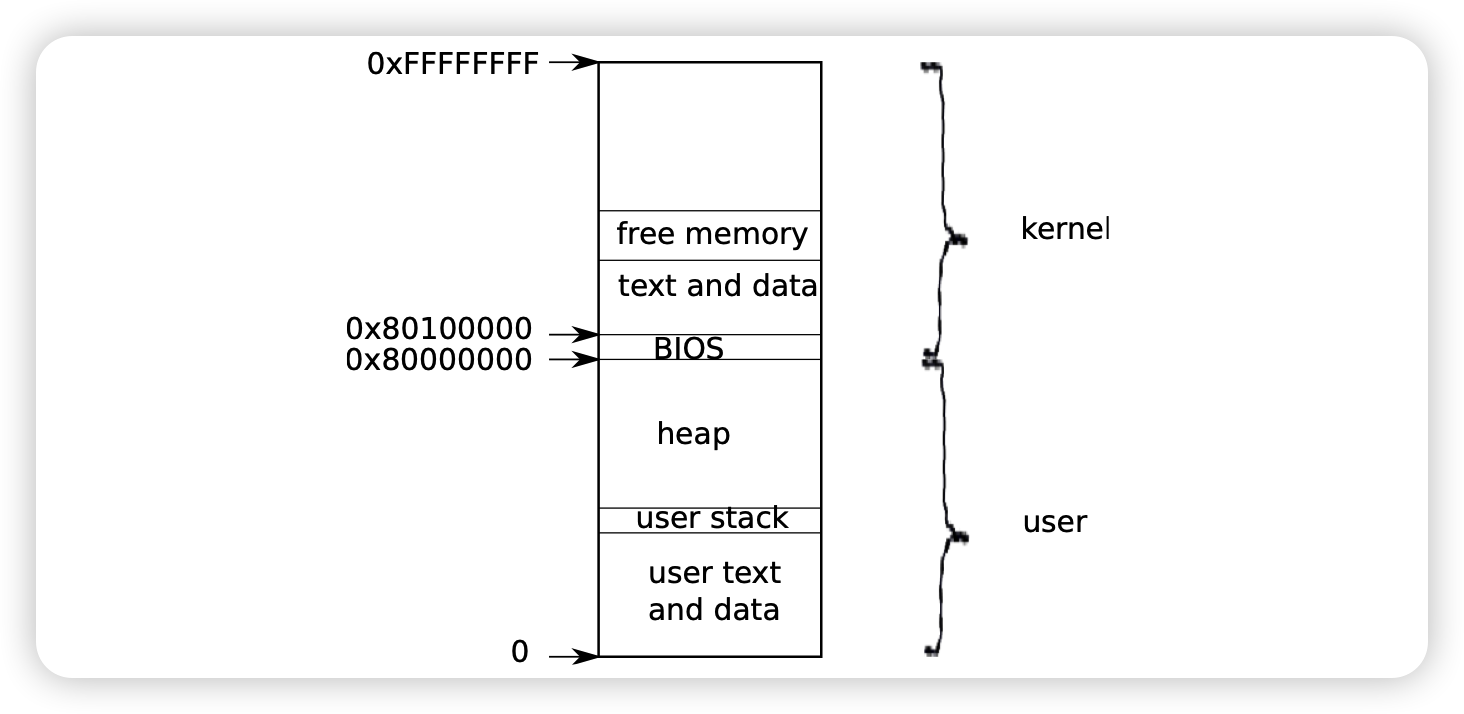
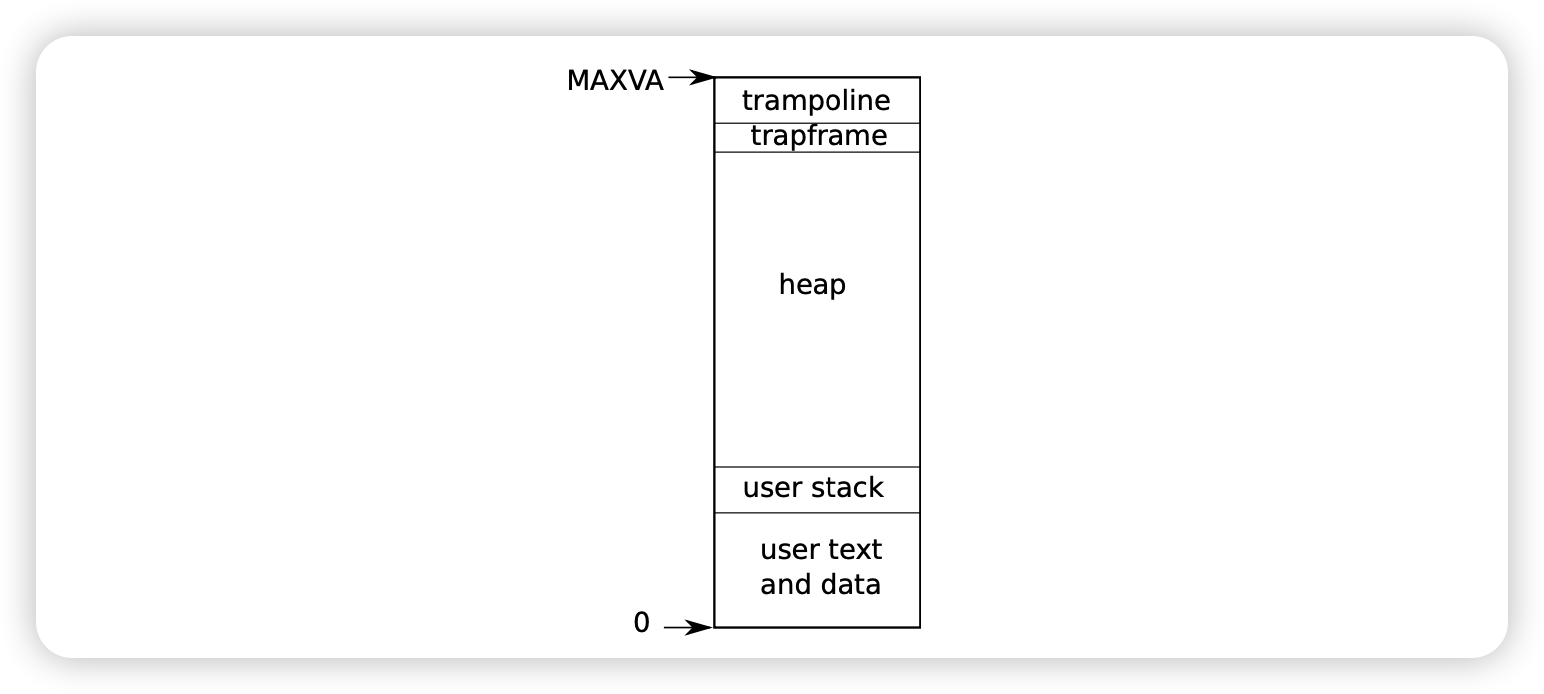
update 2.5

diff --git a/src/ch02.tex b/src/ch02.tex
@@ -177,39 +177,63 @@ xv6的内核源码在\texttt{kernel/}子目录下。
 \end{table}
 
 \section{进程概览}
-Xv6中的隔离单元（和其他Unix操作系统一样）是\emph{进程(process)}。进程的抽象可以阻止一个进程破坏或者窥探另一个进程的内存、CPU、文件描述符等内容。它还可以防止一个进程破坏内核本身，因此一个进程不可能颠覆内核的隔离机制。内核必须小心实现进程的抽象，因为一个有bug的或者恶意的应用可能会欺骗内核或硬件做一些坏事（例如规避强制隔离）。内核用来实现进程的机制包括用户态/内核态标志、地址空间和线程的时间分片。
+xv6中的隔离单元（和其他Unix操作系统一样）是\emph{进程(process)}。
+进程的抽象可以阻止一个进程破坏或者窥探另一个进程的内存、CPU、文件描述符等内容。
+它还可以防止一个进程破坏内核本身，因此一个进程不可能颠覆内核的隔离机制。
+内核必须小心实现进程的抽象，因为一个有bug的或者恶意的应用可能会欺骗内核或硬件做一些坏事（例如规避强制隔离）。
+内核用来实现进程的机制包括用户/管理态标志、地址空间和线程的时间分片。
 
-为了实现强制隔离，进程抽象为每个程序提供了它有一台自己的私有机器的假象。一个进程给一个程序提供了看似私有的内存系统、或者说\emph{地址空间(address space)}，其他进程不能读取或写入。一个进程还为程序提供了看似独占的CPU来执行程序的指令。
+为了实现强制隔离，进程抽象为每个程序提供了它有一台自己的私有机器的假象。
+一个进程给一个程序提供了看似私有的内存系统、或者说\emph{地址空间(address space)}，其他进程不能读取或写入。
+一个进程还为程序提供了看似独占的CPU来执行程序的指令。
 
-Xv6使用页表（由硬件实现）为每个进程提供私有的地址空间。x86的页表把一个\emph{虚拟地址(virtual address)}（x86指令中操作的地址）翻译（或者说“映射”）到一个\emph{物理地址(physical address)}（处理器芯片送到主存的地址）。
+xv6使用页表（由硬件实现）为每个进程提供私有的地址空间。
+RISC-V的页表把一个\emph{虚拟地址(virtual address)}（RISC-V指令中操作的地址）翻译（或者说“映射”）到一个\emph{物理地址(physical address)}（处理器芯片送到主存的地址）。
 
-Xv6为每个进程维护了一个单独的页表，它定义了进程的地址空间。如\autoref{f2-2}所示，一个地址空间包含了进程的\emph{用户内存(user memory)}，它从虚拟地址0处开始。首先是指令，接是全局变量、然后是栈，最后是一个进程可以按需扩张的“堆”区域（用于malloc）。
+xv6为每个进程维护了一个单独的页表，它定义了进程的地址空间。
+如\autoref{f2-2}所示，一个地址空间包含了进程的\emph{用户内存(user memory)}，它从虚拟地址0处开始。
+首先是指令，接是全局变量、然后是栈，最后是一个进程可以按需扩张的“堆”区域（用于malloc）。
+有好几个限制进程地址空间最大值的因素：RISC-V的指针是64位的，当在页表中查找虚拟地址时硬件只使用低39位，xv6只用到了其中的38位。
+因此，最大的地址是$2^{38} - 1$ = 0x3fffffffff，即\texttt{MAXVA}\href{https://github.com/mit-pdos/xv6-riscv/blob/riscv//kernel/riscv.h#L363}{(kernel/riscv.h:363)}。
+在地址空间的顶部，xv6保留了一页用于\emph{trampoline}、一页用于映射进程的\emph{trapframe}。
+xv6使用这两个页来过渡到内核并返回；trampoline页包含进入和离开内核的代码，映射进程的trapframe也是保存/恢复用户进程的状态所必需的，我们将在\autoref{ch04}中解释。
 
 \begin{figure}[htbp]
     \centering
     \includegraphics[width=0.8\textwidth]{../imgs/f2-2.png}
-    \caption{虚拟地址空间的布局}
+    \caption{进程的虚拟地址空间的布局}
     \label{f2-2}
 \end{figure}
 
-每个进程的地址空间都把内核的指令和数据也映射到用户程序的内存中。当一个进程触发一个系统调用时，系统调用会在进程的地址空间的内核映射中执行。这样安排是为了让内核的系统调用代码能直接访问用户内存。为了给用户内存留出充足的空间，xv6的地址空间在高地址处映射内核，从\texttt{0x80100000}开始。
+xv6的内核为每个进程维护很多状态，都存储在一个\texttt{struct proc}里\href{https://github.com/mit-pdos/xv6-riscv/blob/riscv//kernel/proc.h#L85}{(kernel/proc.h:85)}。
+一个进程中最重要的内核状态是它的页表、内核栈和运行状态。
+我们将使用记号\texttt{p->xxx}来引用\texttt{proc}结构体的元素，例如，\texttt{p->pagetable}是进程页表的一个指针。
 
-\begin{figure}[htbp]
-    \centering
-    \includegraphics[width=0.8\textwidth]{../imgs/f2-3.png}
-    \caption{虚拟地址空间的布局}
-    \label{f2-3}
-\end{figure}
+每个进程都有一个执行线程（或者简称\emph{线程（thread）}）来执行进程的指令。
+一个线程可以被挂起之后再恢复。
+为了在进程间透明地切换，内核会挂起当前正在执行的线程然后恢复另一个进程的线程。
+一个线程的很多状态（局部变量、函数调用的返回地址）都存储在线程的栈中。
+每个进程都有两个栈：一个用户栈和一个内核栈（\texttt{p->kstack}）。
+当进程在执行用户指令时，只会用到它的用户栈，它的内核栈是空的。
+当进程进入内核时（因为一次系统调用或者中断），内核代码会在进程的内核栈上执行；然而当一个进程在内核中时，它的用户栈仍然包含保存的数据，但并不会被积极使用。
+一个进程的线程在积极使用其用户栈和内核栈之间交替。
+内核栈是独立的（并且被保护不受用户代码的影响）因此即使进程破坏了它的用户栈，内核也可以继续执行。
 
-Xv6的内核为每个进程维护很多状态，都存储在一个\texttt{struct proc}里（2337）。一个进程中最重要的内核状态是它的页表、内核栈和运行状态。我们将使用记号\texttt{p->xxx}来引用\texttt{proc}结构体的元素。
-
-每个进程都有一个执行线程（或者简称\emph{线程（thread）}）来执行进程的指令。一个线程可以被挂起之后再恢复。为了在进程间透明地切换，内核会挂起当前正在执行的线程然后恢复另一个进程的线程。一个线程的很多状态（局部变量、函数调用的返回地址）都存储在线程的栈中。每个进程都有两个栈：一个用户栈和一个内核栈（\texttt{p->kstack}）。当进程在执行用户指令时，只会用到它的用户栈，它的内核栈是空的。当进程进入内核时（因为一次系统调用或者中断），内核代码会在进程的内核栈上执行；然而当一个进程在内核中时，它的用户栈仍然包含保存的数据，但并不会被积极使用。一个进程的线程在积极使用其用户栈和内核栈之间交替。内核栈是独立的（并且被保护不受用户代码的影响）因此即使进程破坏了它的用户栈，内核也可以继续执行。
-
-当一个进程进行系统调用时，处理器会切换到内核栈、提高硬件的权限级别，并开始执行实现了系统调用的内核指令。当系统调用结束时，内核会返回到用户空间：硬件会降低权限级别、切换回用户栈，并恢复执行系统调用指令之后的用户指令。一个进程的线程可能因为等待I/O而在内核中“阻塞(block)”，并在I/O结束之后恢复。
+一个进程可以执行RISC-V的\texttt{ecall}指令进行系统调用。
+这个指令会提升硬件的特权级别并修改程序计数器到一个内核定义的入口点。
+入口点的代码会切换到内核栈并执行实现了该系统调用的内核指令。
+当系统调用结束时，内核会通过\texttt{sret}指令切换到用户栈并返回用户空间，它还会降低硬件特权级别并恢复执行系统调用指令后的用户指令。
+一个进程的线程可能因为等待I/O而在内核中“阻塞(block)”，并在I/O结束之后恢复。
 
 \texttt{p->state}指示进程是已经被创建好准备运行，还是正在运行、还是等待I/O，还是正在退出。
 
-\texttt{p->pgdir}以x86硬件期望的格式存储进程的页表。在执行一个进程时xv6会使分页硬件使用进程的\texttt{p->pgdir}。一个进程的页表也记录了分配给该进程的物理页的地址，这些物理页用来存储进程的内存。
+\texttt{p->pagetable}以RISC-V硬件期望的格式存储进程的页表。
+在用户空间执行一个进程时xv6会使分页硬件使用进程的\texttt{p->pagetable}。
+一个进程的页表也记录了分配给该进程的物理页的地址，这些物理页用来存储进程的内存。
+
+总的来说，进程结合了两个设计思路：地址空间为进程提供了独占内存的错觉，线程为进程提供了独占CPU的错觉。
+在xv6中，进程由一个地址空间和一个线程组成。
+在真实的操作系统中，一个进程可能有不止一个线程以充分利用多个CPU。
 
 \section{代码：第一个地址空间}
 为了让xv6的架构更加具体，我们将看一下内核如何创建第一个地址空间（它自己的地址空间）、如何创建并启动第一个进程、以及这个进程如何进行第一个系统调用。通过追踪这些操作我们可以详细地看到xv6如何为进程提供强隔离性。提供强隔离性的第一步是设置内核运行在它自己的地址空间。

diff --git a/src/ch4.tex b/src/ch4.tex
@@ -1,4 +1,4 @@
-\chapter{自陷和系统调用}
+\chapter{自陷和系统调用}\label{ch04}
 
 但运行一个进程时，一个CPU会进行通常的处理器循环：读取一条指令、递增程序计数器、执行指令，然后重复。但有一些事件可以控制用户程序必须返回到内核而不是执行下一条指令。这些事件包括一个硬件的信号、一个用户程序正在进行非法操作的（例如，访问没有页表项的虚拟地址）、或者一个用户程序通过系统调用请求内核服务。在处理这些事件时有三个主要的挑战：1）内核必须处理好用户态到内核态的切换（反之亦然）；2）内核和设备必须协调好它们的并行活动；3）内核必须理解设备的接口。解决这3个挑战需要对硬件有深入的了解，并且谨慎地进行编程，并且可能导致不透明的内核代码。本章解释xv6如何解决这三个挑战。
 
